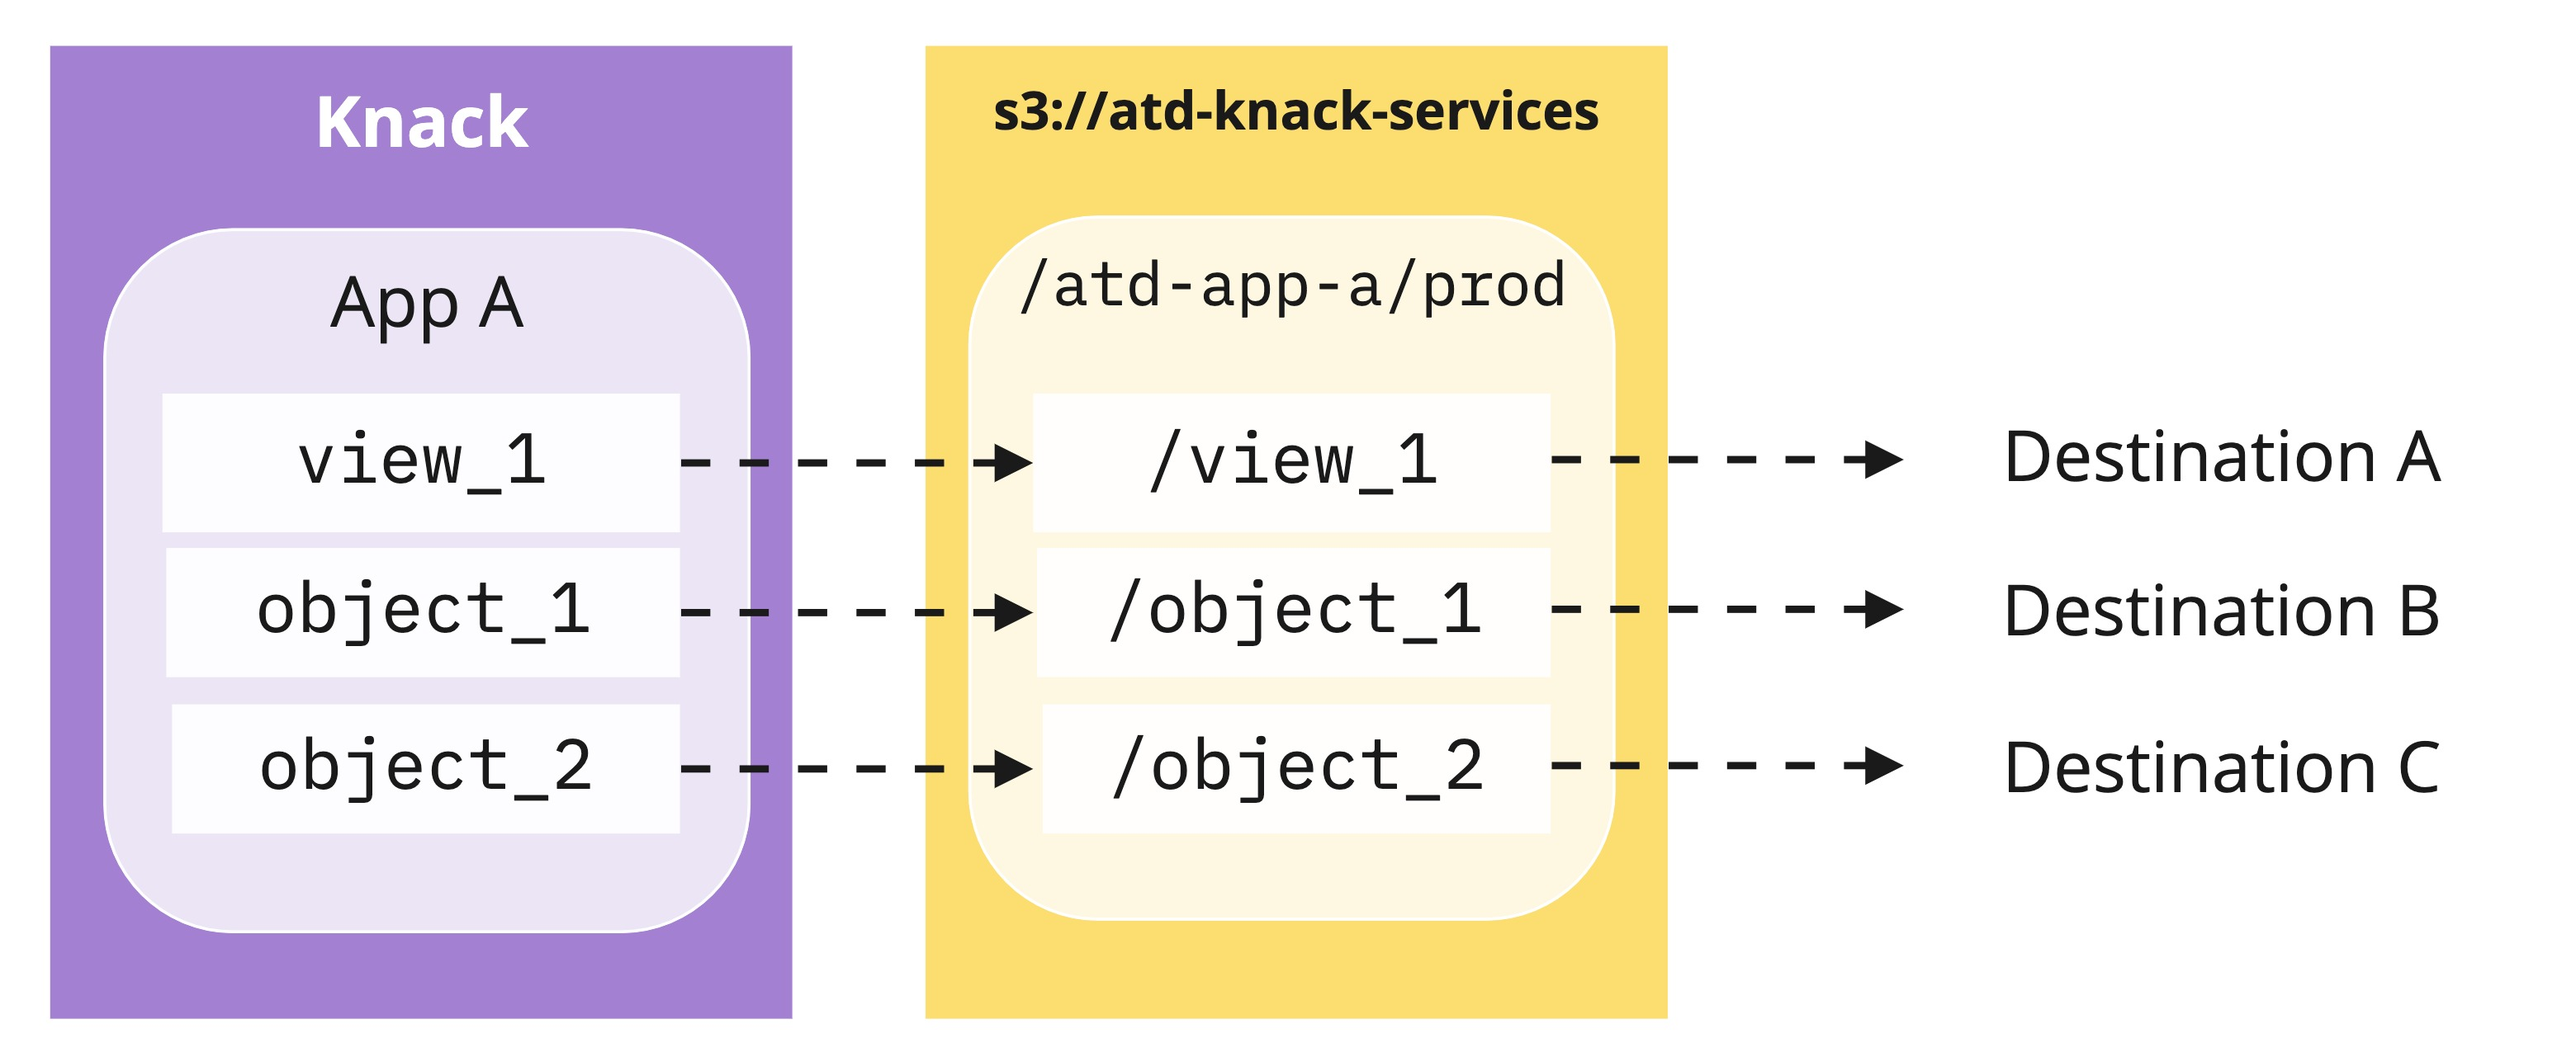
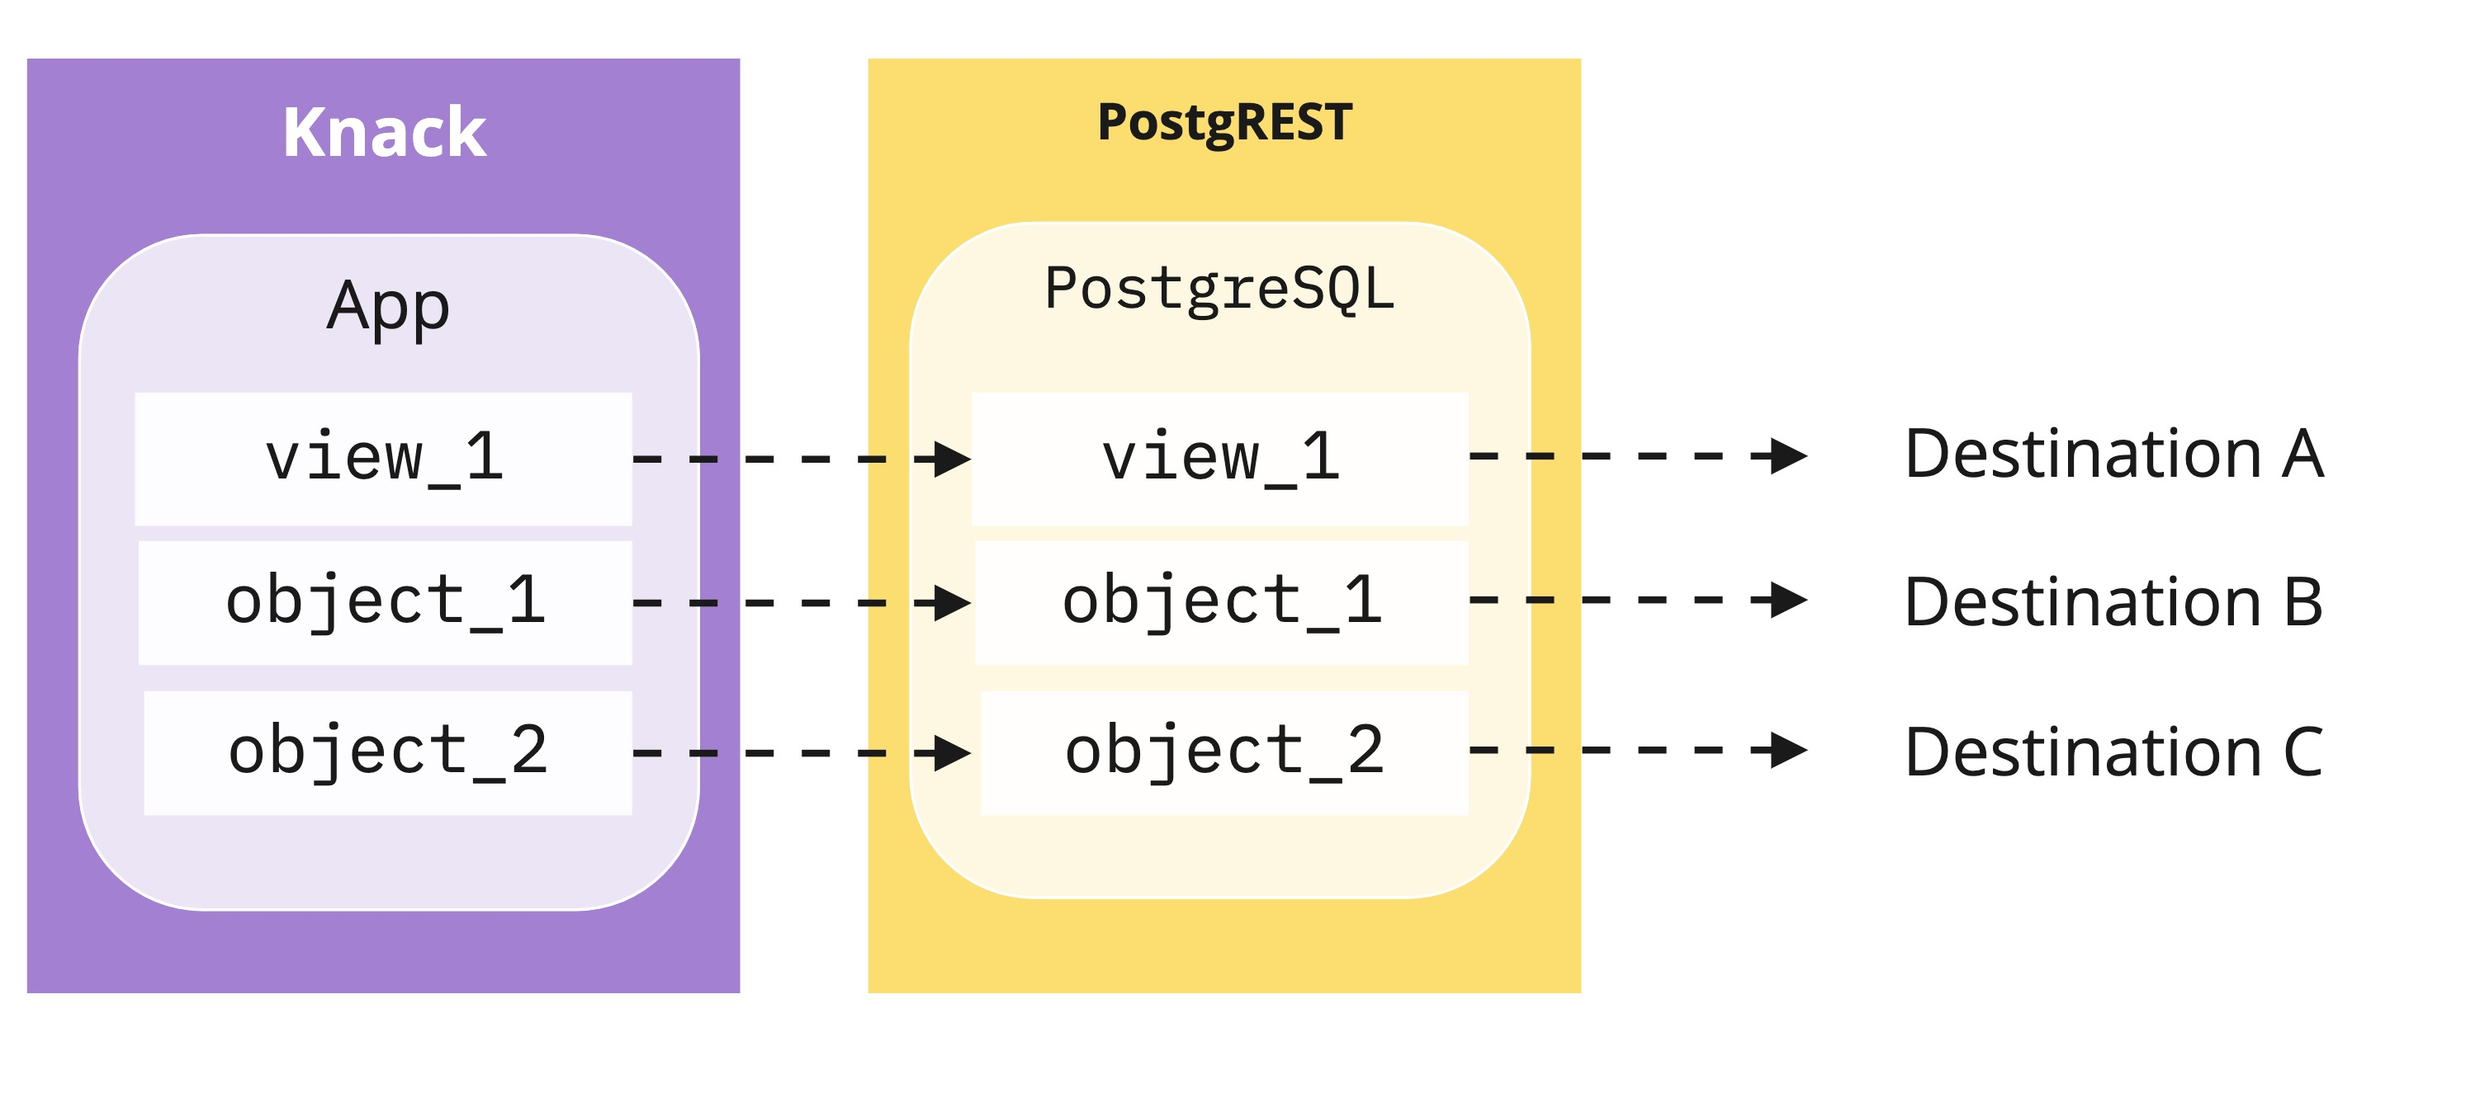
the latest

diff --git a/README.md b/README.md
@@ -14,20 +14,20 @@ These utilities are designed to:
 ## TODO
 
 - document docker CI
-- warning: if you copy an app, the record IDs will change. do a replace!
 - disable legacy publisher for those that have been migrated
 - document field matching. think about field mapping...
+- staging instance
 
 ## Core concepts
 
 - Incremental loading and Knack filter limitations
 - Truncating/replacing
 
-## Configuration
+## System Architecture
 
 ### Postgres data store
 
-A PostgreSQL database serves as staging area for Knack records to be published to downstream systems. Knack data lives in two tables within the `api` schema.
+A PostgreSQL database serves as staging area for Knack records to be published to downstream systems. Knack data lives in two tables within the `api` schema, described below.
 
 #### `knack`
 
@@ -54,9 +54,11 @@ This table holds Knack application metadata, which is kept in sync and relied up
 
 ### PostgREST API
 
-The Postgres data store is fronted by a [Postgrest](http://postgrest.com/) API which is used for all reading and writing to the database.
+The Postgres data store is fronted by a [Postgrest](http://postgrest.com/) API which is used for all reading and writing to the database. The PostgREST server runs on an EC2 instance.
 
 All operations within the `api` schema that is exposed via PostgREST must be authenticated with a valid JWT for the dedicated Postgres user. The JWT secret and API user name are stored in the DTS password manager.
+
+## Configuration
 
 ### App names
 
@@ -81,7 +83,7 @@ If you'd like to run locally in Docker, create an [environment file](https://doc
 $ docker run -it --rm --env-file env_file -v <absolute-path-to-this-repo>:/app atddocker/atd-knack-services:production services/records_to_socrata.py -a data-tracker -c object_11 -e prod
 ```
 
-### Knack (`services/config/knack.py`)
+### Knack config (`services/config/knack.py`)
 
 Each Knack container which will be processed must have configuration parameters defined in `services/config/knack.py`, as follows:
 
@@ -182,7 +184,7 @@ $ python records_to_agol.py \
 
 ## Utils (`/services/utils`)
 
-The package contains utilities for fetching and pushing data between Knack applications and AWS S3.
+The package contains utilities for fetching and pushing data between Knack applications and PostgREST.
 
 TODO
 
